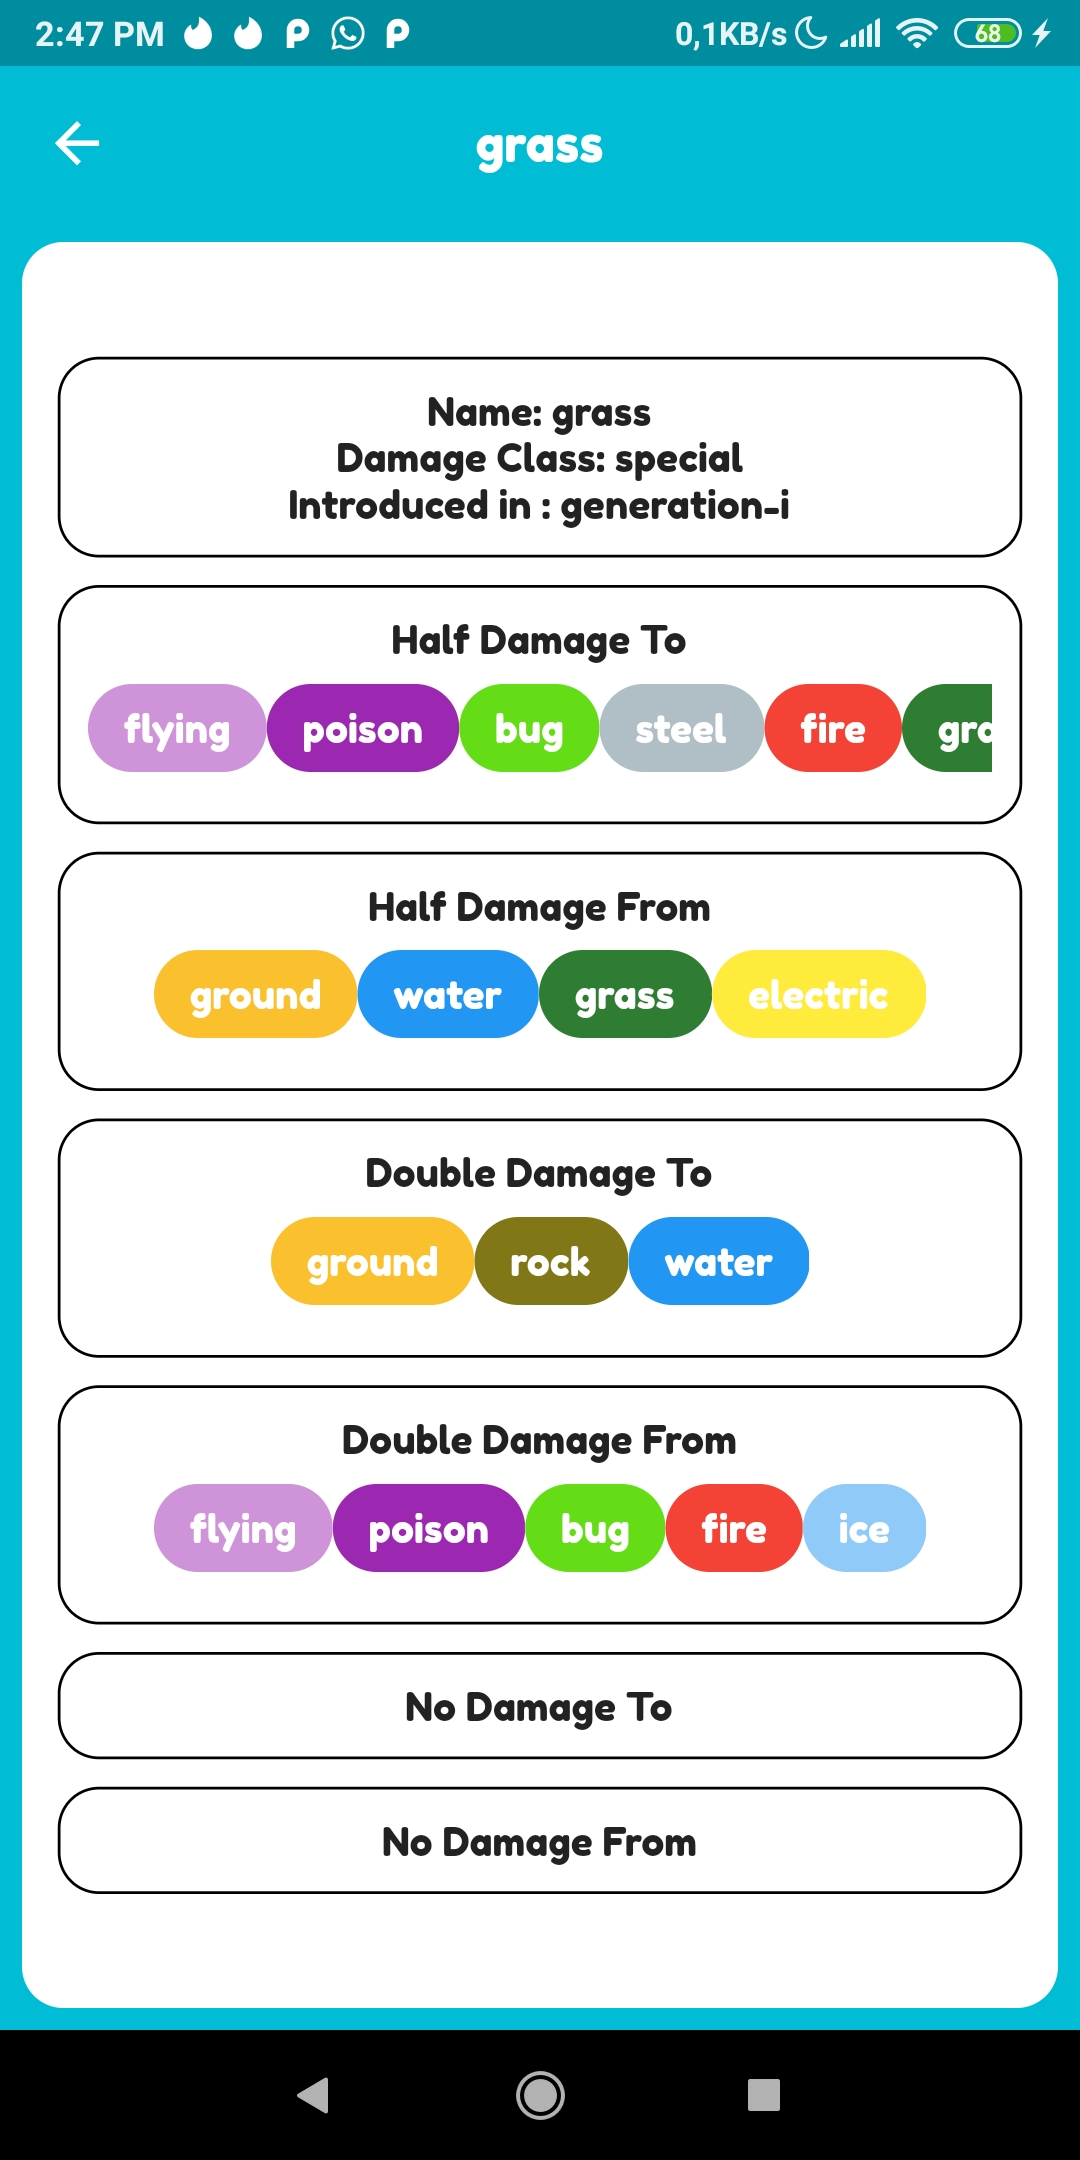
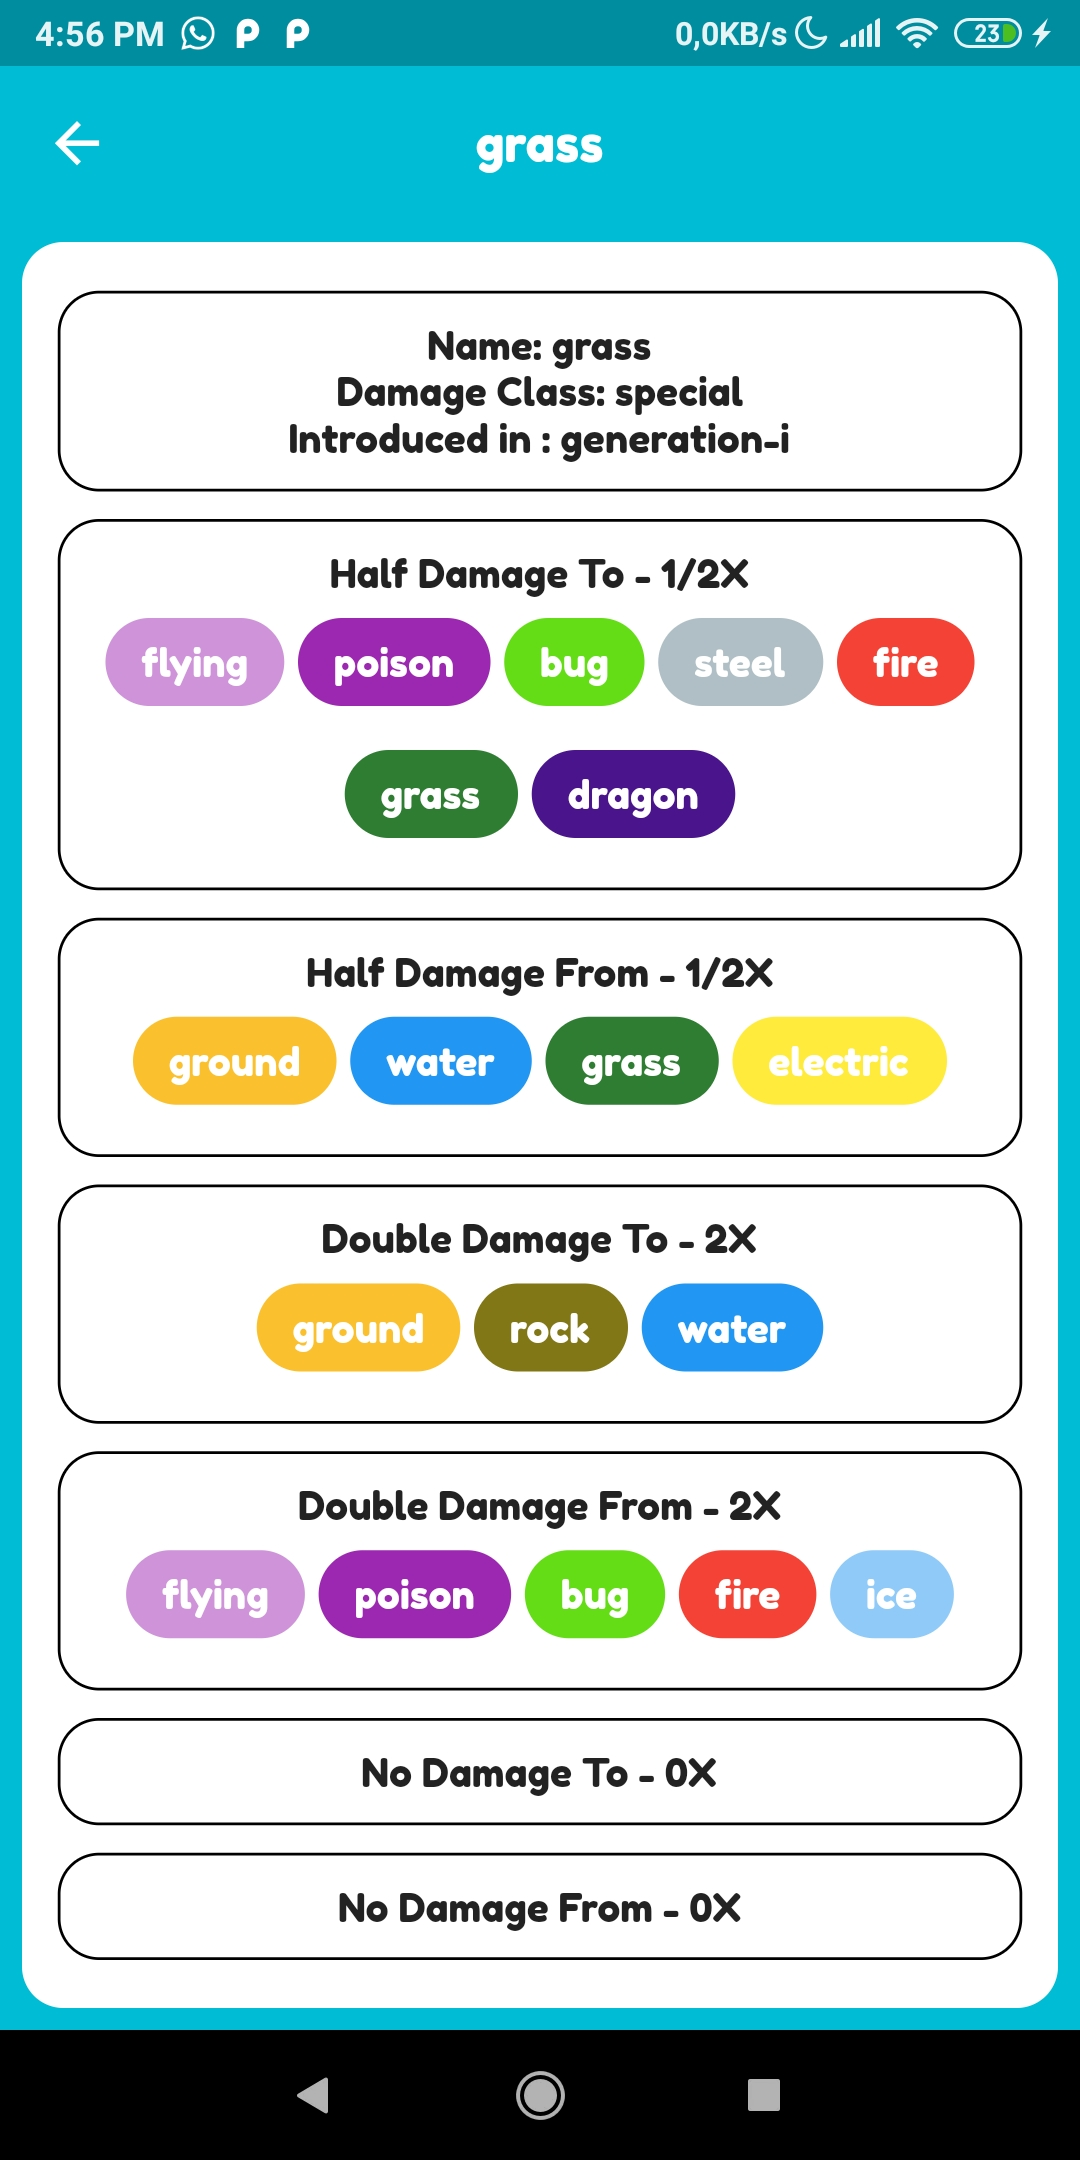
More

diff --git a/lib/view/detalhes/type_detalhes.dart b/lib/view/detalhes/type_detalhes.dart
@@ -46,75 +46,80 @@ class TypeDetalhes extends StatelessWidget {
                   gerarContainer("",
                       child: Column(children: [
                         Text("Half Damage To - 1/2X"),
-                        SingleChildScrollView(
-                            scrollDirection: Axis.horizontal,
-                            child: Row(
-                                children: type.damageRelations.halfDamageTo
-                                    .map((d) => PokeButton("${d.name}",
-                                        cor: formatColorExist(d.name)))
-                                    .toList()))
+                        Wrap(
+                            spacing: 5,
+                            alignment: WrapAlignment.center,
+                            children: type.damageRelations.halfDamageTo
+                                .map((d) => FittedBox(
+                                    fit: BoxFit.contain,
+                                    child: PokeButton("${d.name}",
+                                        cor: formatColorExist(d.name))))
+                                .toList())
                       ])),
                   gerarContainer("",
                       child: Column(children: [
                         Text("Half Damage From - 1/2X"),
-                        SingleChildScrollView(
-                            scrollDirection: Axis.horizontal,
-                            child: Row(
-                                mainAxisAlignment: MainAxisAlignment.center,
-                                children: type.damageRelations.halfDamageFrom
-                                    .map((d) => PokeButton("${d.name}",
-                                        cor: formatColorExist(d.name)))
-                                    .toList()))
+                        Wrap(
+                            spacing: 5,
+                            alignment: WrapAlignment.center,
+                            children: type.damageRelations.halfDamageFrom
+                                .map((d) => FittedBox(
+                                    fit: BoxFit.contain,
+                                    child: PokeButton("${d.name}",
+                                        cor: formatColorExist(d.name))))
+                                .toList())
                       ])),
                   gerarContainer("",
                       child: Column(children: [
                         Text("Double Damage To - 2X"),
-                        SingleChildScrollView(
-                            scrollDirection: Axis.horizontal,
-                            child: Row(
-                                mainAxisAlignment: MainAxisAlignment.center,
-                                children: type.damageRelations.doubleDamageTo
-                                    .map((d) => PokeButton("${d.name}",
-                                        cor: formatColorExist(d.name)))
-                                    .toList()))
+                        Wrap(
+                            spacing: 5,
+                            alignment: WrapAlignment.center,
+                            children: type.damageRelations.doubleDamageTo
+                                .map((d) => FittedBox(
+                                    fit: BoxFit.contain,
+                                    child: PokeButton("${d.name}",
+                                        cor: formatColorExist(d.name))))
+                                .toList())
                       ])),
                   gerarContainer("",
                       child: Column(children: [
                         Text("Double Damage From - 2X"),
-                        SingleChildScrollView(
-                            scrollDirection: Axis.horizontal,
-                            child: Row(
-                                mainAxisAlignment: MainAxisAlignment.center,
-                                children: type.damageRelations.doubleDamageFrom
-                                    .map((d) => PokeButton("${d.name}",
-                                        cor: formatColorExist(d.name)))
-                                    .toList()))
+                        Wrap(
+                            spacing: 5,
+                            alignment: WrapAlignment.center,
+                            children: type.damageRelations.doubleDamageFrom
+                                .map((d) => FittedBox(
+                                    fit: BoxFit.contain,
+                                    child: PokeButton("${d.name}",
+                                        cor: formatColorExist(d.name))))
+                                .toList())
                       ])),
                   gerarContainer("",
                       child: Column(children: [
                         Text("No Damage To - 0X"),
-                        SingleChildScrollView(
-                            scrollDirection: Axis.horizontal,
-                            child: Row(
-                                mainAxisAlignment: MainAxisAlignment.center,
-                                children: type.damageRelations.noDamageTo
-                                    .map((d) => PokeButton("${d.name}",
-                                        cor: formatColorExist(d.name)))
-                                    .toList()))
+                        Wrap(
+                            spacing: 5,
+                            alignment: WrapAlignment.center,
+                            children: type.damageRelations.noDamageTo
+                                .map((d) => FittedBox(
+                                    fit: BoxFit.contain,
+                                    child: PokeButton("${d.name}",
+                                        cor: formatColorExist(d.name))))
+                                .toList())
                       ])),
                   gerarContainer("",
                       child: Column(children: [
                         Text("No Damage From - 0X"),
-                        SingleChildScrollView(
-                            scrollDirection: Axis.horizontal,
-                            child: SingleChildScrollView(
-                                scrollDirection: Axis.horizontal,
-                                child: Row(
-                                    mainAxisAlignment: MainAxisAlignment.center,
-                                    children: type.damageRelations.noDamageFrom
-                                        .map((d) => PokeButton("${d.name}",
-                                            cor: formatColorExist(d.name)))
-                                        .toList())))
+                        Wrap(
+                            spacing: 5,
+                            alignment: WrapAlignment.center,
+                            children: type.damageRelations.noDamageFrom
+                                .map((d) => FittedBox(
+                                    fit: BoxFit.contain,
+                                    child: PokeButton("${d.name}",
+                                        cor: formatColorExist(d.name))))
+                                .toList())
                       ])),
                 ]))));
   }

diff --git a/lib/view/poke_more.dart b/lib/view/poke_more.dart
@@ -37,49 +37,44 @@ class PokeMore extends StatelessWidget {
                 child: Column(
                   children: [
                     Text("Weakness"),
-                    SizedBox(
-                        height: 150,
-                        child: GridView.count(
-                            controller:
-                                ScrollController(keepScrollOffset: true),
-                            crossAxisCount: type.types.length > 3 ? 3 : 2,
-                            childAspectRatio: type.types.length > 3 ? 3 : 2,
-                            children: type.types
-                                .where((t) => t.damage > 1)
-                                .map((t) => PokeButton(
+                    Wrap(
+                        spacing: 5,
+                        alignment: WrapAlignment.center,
+                        children: type.types
+                            .where((t) => t.damage > 1)
+                            .map((t) => FittedBox(
+                                fit: BoxFit.contain,
+                                child: PokeButton(
                                     t.name + " X${t.damage.toInt()}",
-                                    cor: formatColorExist(t.name)))
-                                .toList())),
+                                    cor: formatColorExist(t.name))))
+                            .toList()),
                     Divider(thickness: 2),
                     Text("Resistant or Imunne"),
-                    SizedBox(
-                        height: 150,
-                        child: GridView.count(
-                            controller:
-                                ScrollController(keepScrollOffset: true),
-                            shrinkWrap: true,
-                            crossAxisCount: 3,
-                            childAspectRatio: 3,
-                            children: type.types
-                                .where((t) => t.damage < 1)
-                                .map((t) => PokeButton(
+                    Wrap(
+                        spacing: 5,
+                        alignment: WrapAlignment.center,
+                        children: type.types
+                            .where((t) => t.damage < 1)
+                            .map((t) => FittedBox(
+                                fit: BoxFit.contain,
+                                child: PokeButton(
                                     t.name +
                                         " X${t.damage == 0.5 ? '1/2' : '1/4'}",
-                                    cor: formatColorExist(t.name)))
-                                .toList())),
+                                    cor: formatColorExist(t.name))))
+                            .toList()),
                     Divider(thickness: 2),
                     Text("Normal Damage"),
-                    SizedBox(
-                        height: 150,
-                        child: GridView.count(
-                            crossAxisCount: 3,
-                            childAspectRatio: 3,
-                            children: type.types
-                                .where((t) => t.damage == 1)
-                                .map((t) => PokeButton(
+                    Wrap(
+                        spacing: 5,
+                        alignment: WrapAlignment.center,
+                        children: type.types
+                            .where((t) => t.damage == 1)
+                            .map((t) => FittedBox(
+                                fit: BoxFit.contain,
+                                child: PokeButton(
                                     t.name + " X${t.damage.toInt()}",
-                                    cor: formatColorExist(t.name)))
-                                .toList())),
+                                    cor: formatColorExist(t.name))))
+                            .toList()),
                   ],
                 )),
             Text("Sprites"),
@@ -106,12 +101,14 @@ class PokeMore extends StatelessWidget {
   }
 
   Widget imagemSprite(String url) {
-    return Center(
+    return Container(
+        height: 120,
         child: CachedNetworkImage(
-      imageUrl: url,
-      placeholder: (context, url) => CircularProgressIndicator(),
-      errorWidget: (context, url, error) => Center(child: Text("No Sprite")),
-      fit: BoxFit.contain,
-    ));
+          imageUrl: url,
+          placeholder: (context, url) => CircularProgressIndicator(),
+          errorWidget: (context, url, error) =>
+              Center(child: Text("No Sprite")),
+          fit: BoxFit.contain,
+        ));
   }
 }

diff --git a/README.md b/README.md
@@ -14,6 +14,7 @@ Aplicação desenvolvida utilizando o framework [Flutter](https://flutter.dev/) 
 <img src="screenshots/movimentos.jpg" width=250>
 <img src="screenshots/detalhes_move.jpg" width=250>
 <img src="screenshots/evolucao.jpg" width=250>
+<img src="screenshots/more.jpg" width=250>
 
 <!-- ![Principal](screenshots/principal.jpg)  -->
 <!-- ![Detalhes](screenshots/detalhes.jpg)
